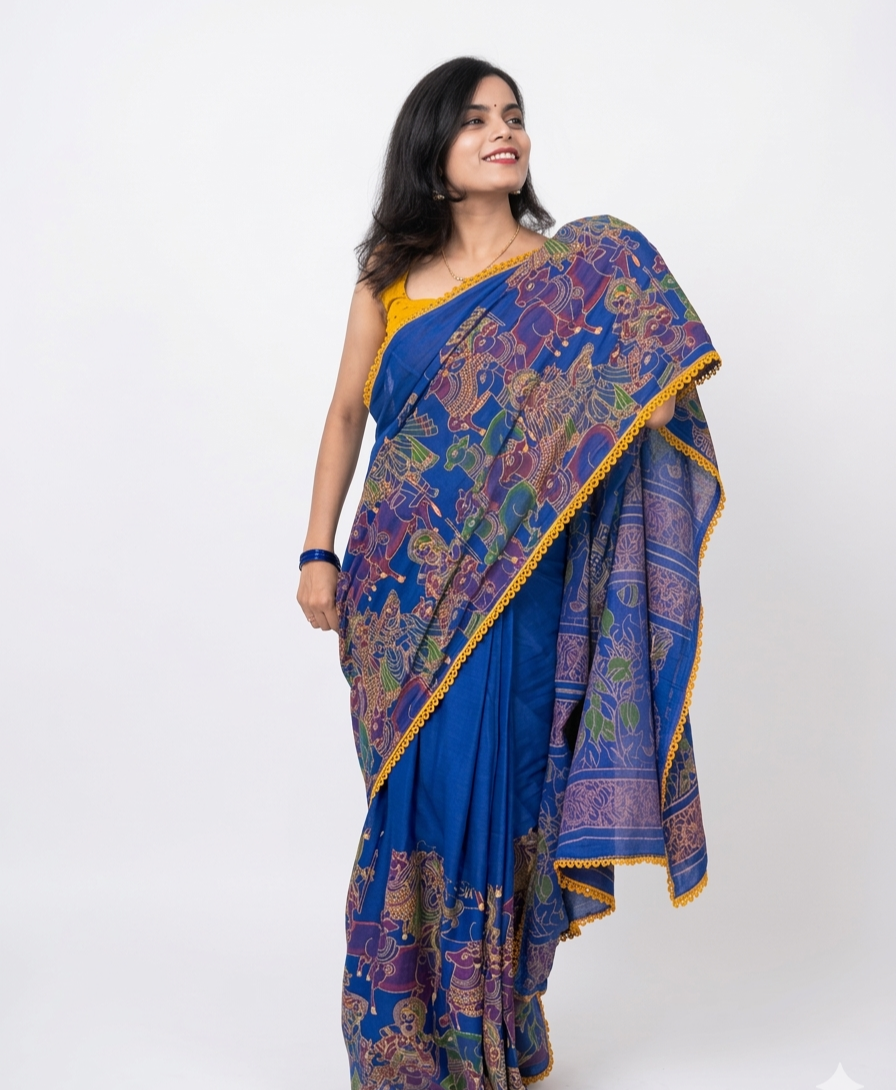
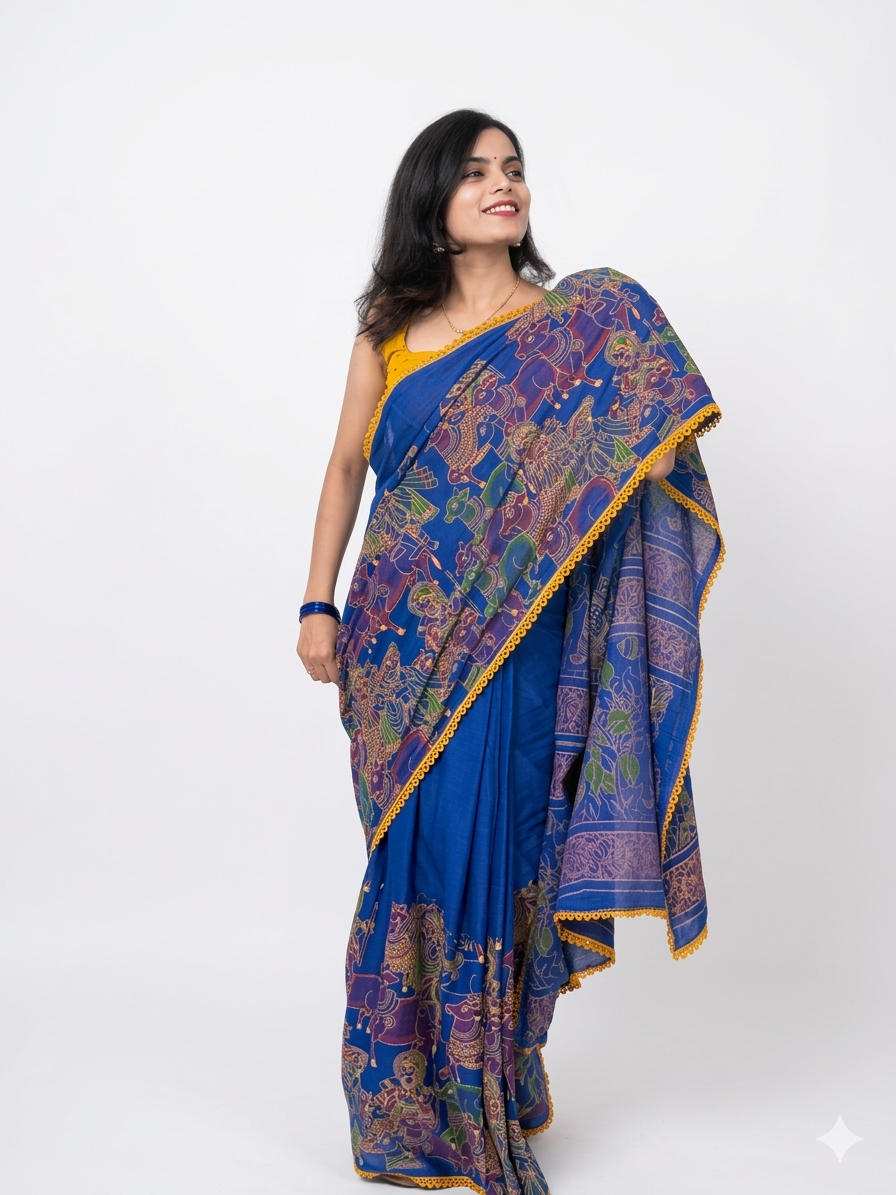
Restore original images and hide watermarks via CSS overflow instead of cropping

Changed region(s): [[0.3125, 0.0312, 0.8125, 1.0]]

diff --git a/styles.css b/styles.css
@@ -482,7 +482,7 @@ img { max-width: 100%; display: block; }
 
 .story-img img {
     width: 100%;
-    height: 100%;
+    height: calc(100% + 30px);
     object-fit: cover;
     object-position: top;
     transition: transform 0.6s ease;
